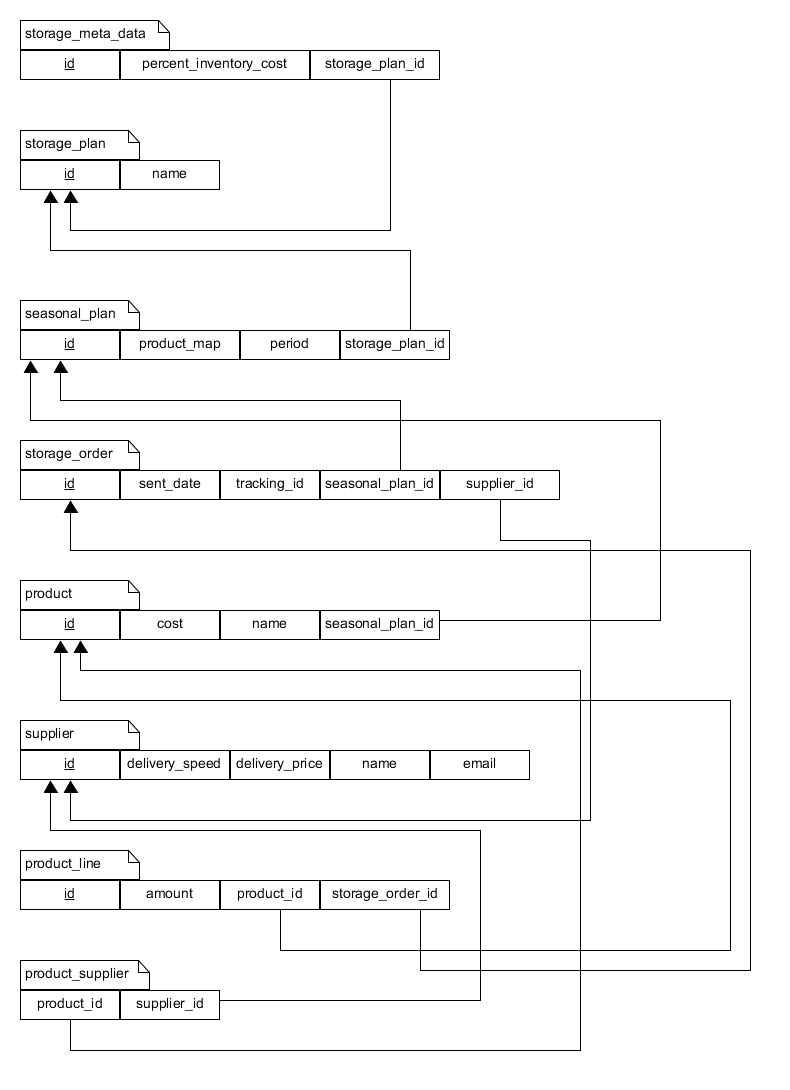
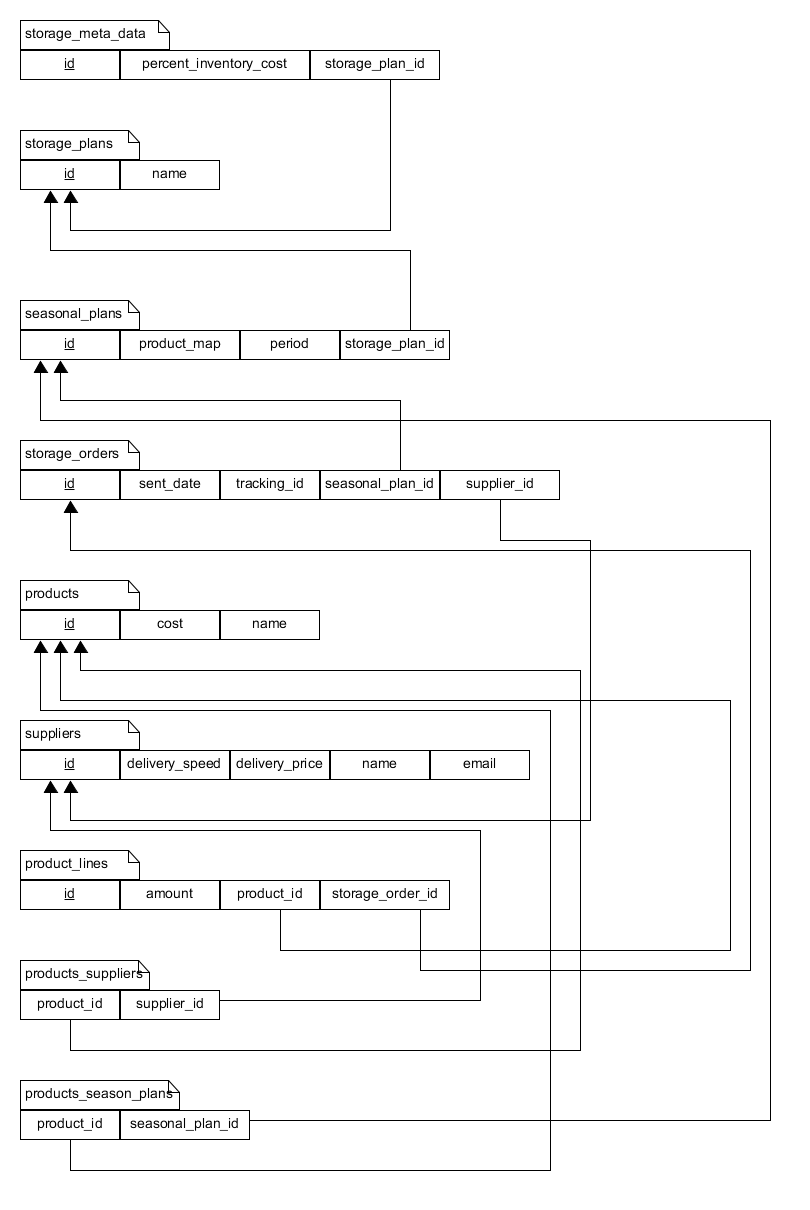
more krav

diff --git a/sections/krav/informations-krav.tex b/sections/krav/informations-krav.tex
@@ -24,7 +24,6 @@ For at kunne gennemføre Use Casen er det ikke nødvendigt endnu at tage højde 
 Domænemodellen ovenfor forholder sig kun til de relevante klasser for at kunne gennemføre Use Casen Automatisk Lagerstyring. Det er ud fra denne at databasen vil blive designet.
 
 \subsection{Database}
-\todo{normalisering}
 Nu hvor domænemodellen er på plads kan der nu også udvikles en relational model af databasen. Der vil først tages udgangspunkt i at mappe hver klasse til en tabel, hvor der tages højde for klassenavn og attributter.
 Da der ingen nedarvning er mellem nogen af klasserne, er det ikke relevant at tænke i pull-up og pull-down. Hver klasse får derfor sin egen tabel.
 Dernæst skal associationerne laves ud fra om der er tale om 1-til-1, 1-til-mange eller mange-til-mange relationer. 
@@ -32,22 +31,15 @@ Dernæst skal associationerne laves ud fra om der er tale om 1-til-1, 1-til-mang
 \begin{figure}[H]
     \centering
     \includegraphics[width=0.9\textwidth]{figures/krav/relation_model_0th_normalization.png}
-    \caption{Relationsmodel 0th normalisering}
+    \caption{Relationsmodel før normalisering}
     \label{fig:relational_model_0}
 \end{figure}
 
-Reglerne for de forskellige relationer og hvordan de skal forbindes er fulgt under udviklingen af den relationelle model, hvilket bl.a. kan ses på 'product_supplier' tabellen. Denne forbinder en mange-til-mange association mellem Product og Supplier. 
-Nu hvor tabellen er lavet, kan den nu normaliseres.
+Reglerne for de forskellige relationer og hvordan de skal forbindes er fulgt under udviklingen af den relationelle model, hvilket bl.a. kan ses på 'product\_supplier' tabellen. Denne forbinder en mange-til-mange association mellem Product og Supplier. 
+Nu hvor tabellen er lavet, kan den normaliseres.
 
-\begin{figure}[H]
-    \centering
-    \includegraphics[width=0.9\textwidth]{figures/krav/relation_model_1th_normalization.png}
-    \caption{Relationsmodel 1th normalisering}
-    \label{fig:relational_model_1}
-\end{figure}
-
-Efter at have kigget tabellen igennem kan det ses at 1NF allerede er opfyldt, da samtlige værdier er atomiske.
-For at opfylde 2NF skal 1NF være opfyldt, og der skal ikke være nogle partial dependencies. Da der skal bruges en Map mellem product og seasonal_plan laves der en ny tabel: seasonal_plan_product_map. Denne vil også indeholde 'amount'.
+Efter at have kigget tabellen igennem kan det ses at 1NF er opfyldt da alle værdier er atomiske.
+For at opfylde 2NF skal 1NF være opfyldt, og der skal ikke være nogle partial dependencies. Da der skal bruges en Map mellem 'products' og 'seasonal\_plans' laves der en ny tabel: 'seasonal\_plan\_product\_maps'. Denne vil også indeholde 'amount'.
 
 \begin{figure}[H]
     \centering
@@ -56,9 +48,7 @@ For at opfylde 2NF skal 1NF være opfyldt, og der skal ikke være nogle partial 
     \label{fig:relational_model_0}
 \end{figure}
 
-For at opfylde 3NF skal 2NF være opfyldt, samt må der ikke være nogle transitive afhængigheder. Det minder meget om kravet til 2NF, og det kan konkluderes at der ingen transitive afhængigheder er.
-For at opfylde BCNF kræves det at 3NF er opfyldt og at samtlige determinanter er kandidatnøgler. De determinanter, der er I den relationelle model er samtlige attributter med 'id' og '..._id' på nær 'tracking_id'. 'tracking_id' oprettes ud før der laves en sent_date på varen. Der er derfor ingen afhængighed. 
+For at opfylde 3NF skal 2NF være opfyldt, og der må ikke være nogle transitive afhængigheder. Det minder meget om kravet til 2NF, og det kan konkluderes at der ingen transitive afhængigheder er.
+For at opfylde BCNF kræves det at 3NF er opfyldt og at samtlige determinanter er kandidatnøgler. De determinanter, der er I den relationelle model er samtlige attributter med 'id' og '...\_id' på nær 'tracking\_id'. 'tracking\_id' sent\_date på varen. Der er derfor ingen afhængighed. 
 
 Det kan nu konkluderes at den relationelle model er på BCNF og kan udvikles i Microsoft SQL.
-
-

diff --git a/sections/krav/funktionelle-krav.tex b/sections/krav/funktionelle-krav.tex
@@ -114,7 +114,3 @@ Ved opgaven Automatisk lagerstyring skal \textbf{brugeren} kunne se lagerbeholdn
     \hline
 \end{longtable}
 Nu er Kandidatklasserne fundet, og det er nu muligt at opstille en domænemodel af systemet, så basisformen af systemet kan designes, samt forholdene mellem klasserne.
-
-
-
-%\section{Ikke-funktionelle krav}
